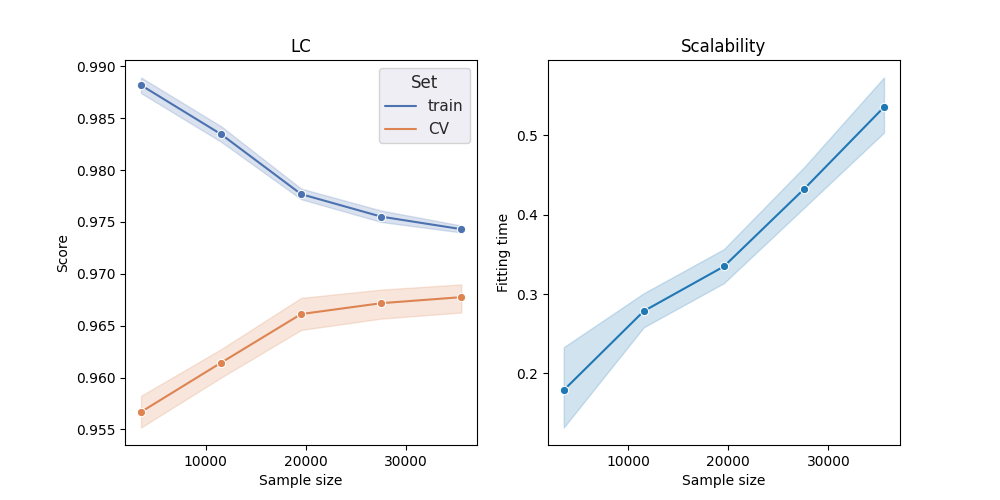
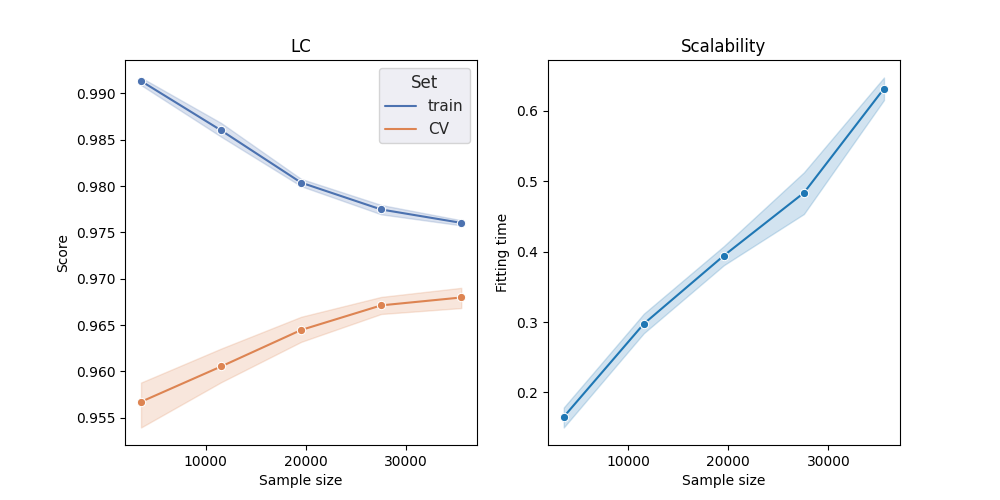
refactor

diff --git a/src/model_architecture.py b/src/model_architecture.py
@@ -292,6 +292,8 @@ class SimpleNN(nn.Module):
 
 
 
+from utils.log import logger, logthis
+extra_args = { "funcname_override" : "print"}
 
 @click.command()
 @click.option("--search", is_flag=True)
@@ -299,7 +301,7 @@ class SimpleNN(nn.Module):
 @click.option("--train", is_flag=True)
 def main(**kwargs):
     df = pd.read_csv("assets/subject/case_study_scoring_raw.csv")
-    sss = StratifiedShuffleSplit(n_splits=5, test_size=.2, random_state=42)
+    sss = StratifiedShuffleSplit(n_splits=10, test_size=.2, random_state=42)
     X, y, le_list = process_tree(df) 
     clf = lgb.LGBMClassifier(objective="binary", class_weight="balanced", boosting_type="gbdt", num_leaves=40, reg_alpha=1, reg_lambda=1)
     if kwargs["search"]:

diff --git a/src/utils/review.py b/src/utils/review.py
@@ -35,7 +35,7 @@ def plot_learning_curves(clf, scoring, X, y, filename, axes=None, ylim=None, cv=
 
     # learning curves
     sns.set_theme()
-    sizes = np.tile(train_sizes,10)
+    sizes = np.tile(train_sizes, cv.n_splits)
     sizes.sort()
     df = pd.concat([pd.DataFrame({"Sample size":sizes, "Score":train_scores.reshape(-1), "Set":"train"}),
                     pd.DataFrame({"Sample size":sizes, "Score":test_scores.reshape(-1), "Set":"CV"})])
